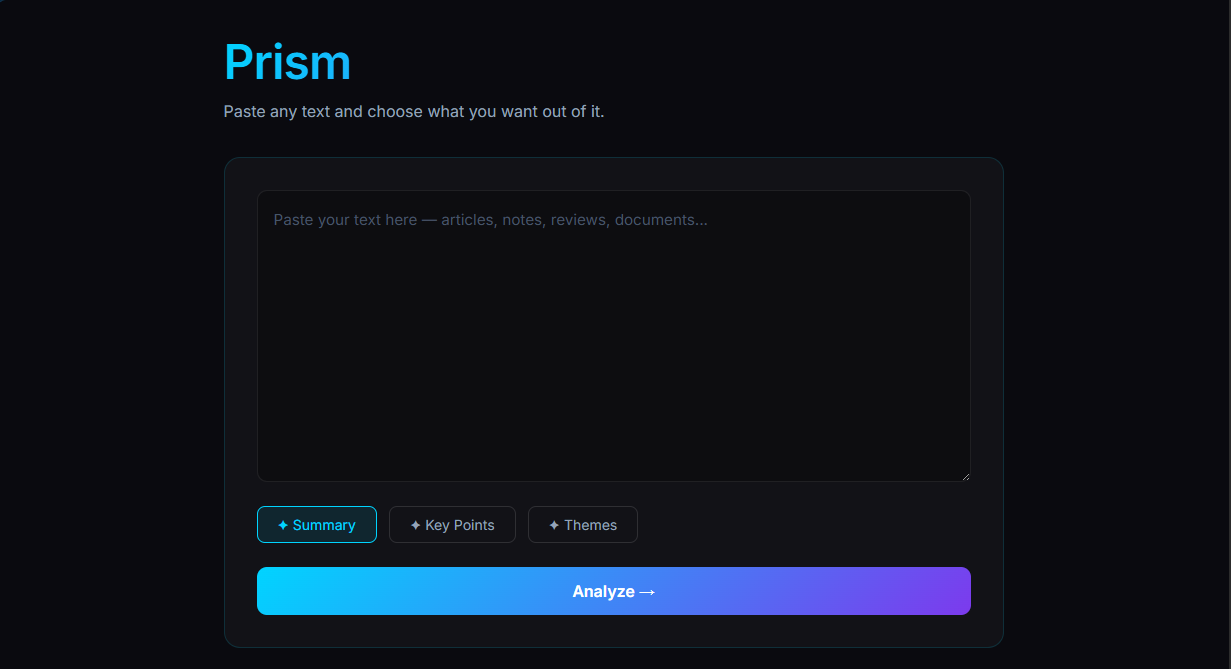
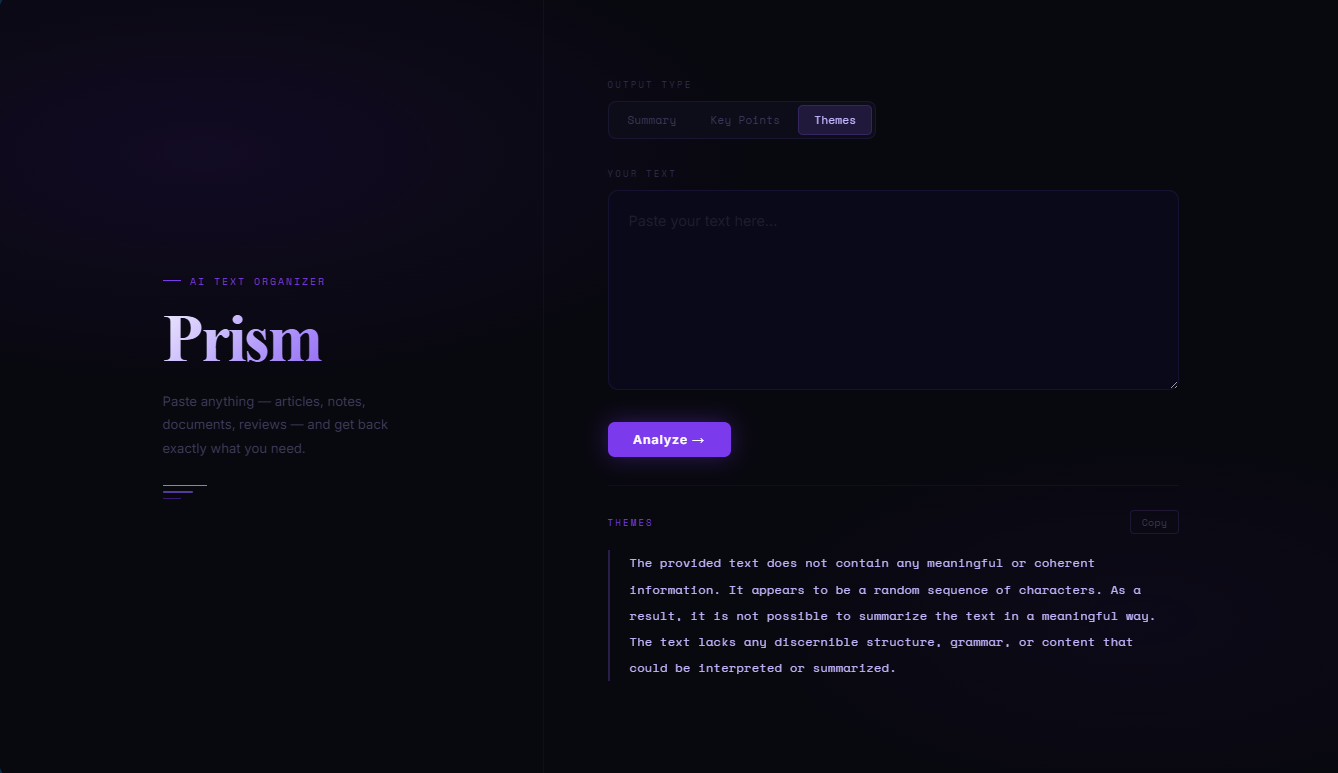
portfolio redesign updatess

diff --git a/src/components/Projects.jsx b/src/components/Projects.jsx
@@ -25,6 +25,7 @@ const projects = [
     accent: 'purple',
     type: 'AI · Tool',
     title: 'AI Caption Generator',
+    image: '/caption.png',
     status: 'live',
     statusLabel: 'Live',
     desc: 'An AI-powered tool that generates ready-to-post captions for social media — built for creators and small businesses who need quick, on-brand content.',
@@ -43,6 +44,7 @@ const projects = [
     accent: 'green',
     type: 'AI · Tool',
     title: 'Prism',
+    image: '/prism.png',
     status: 'live',
     statusLabel: 'Live',
     desc: 'Paste any text — articles, notes, documents, reviews — and get back a clean summary, key points, or organized themes. Powered by AI.',